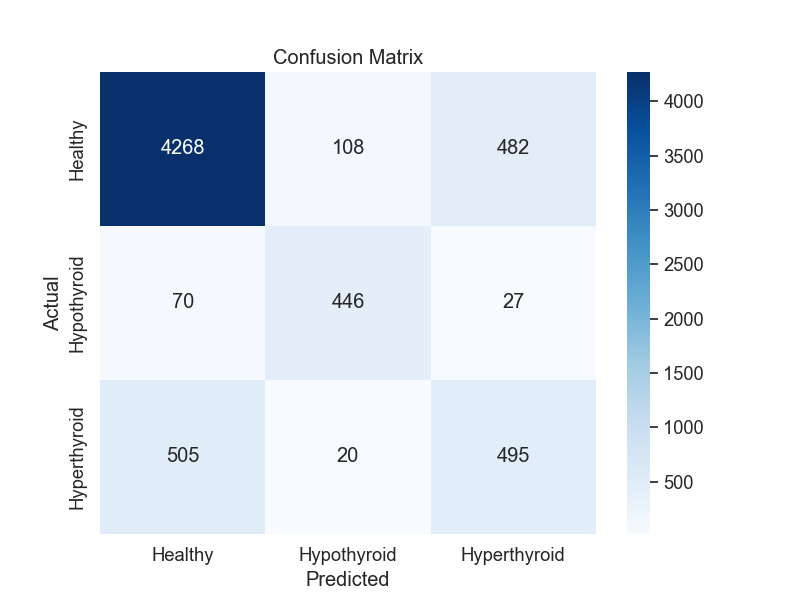
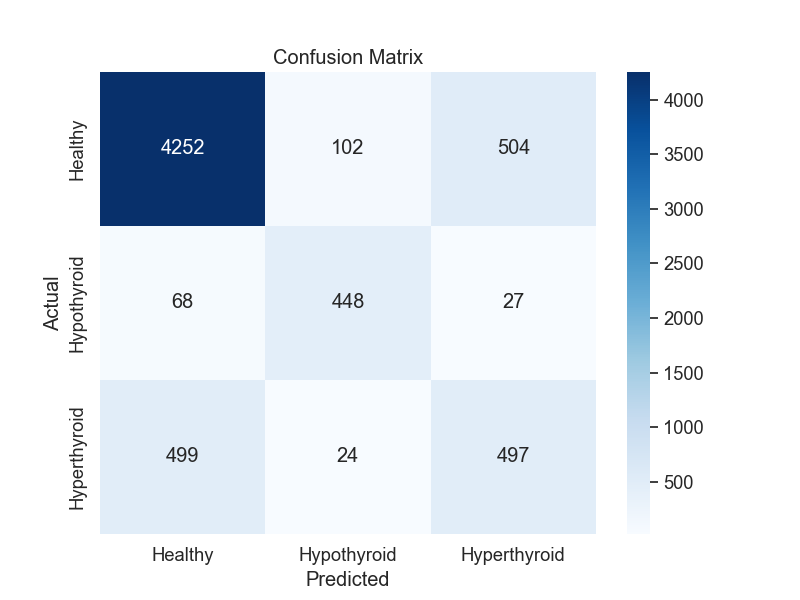
up

diff --git a/thyroid-disease/Algorithms/thyroid_neural_network.py b/thyroid-disease/Algorithms/thyroid_neural_network.py
@@ -9,8 +9,8 @@ import matplotlib.pyplot as plt
 import seaborn as sns
 from sklearn.metrics import ConfusionMatrixDisplay
 
-epochs = 10000
-batch_size = 20
+epochs = 500
+batch_size = 16
 model_filename = 'thyroid-classifier-model.h5'
 
 def create_keras_model(input_dim, num_classes=3):
